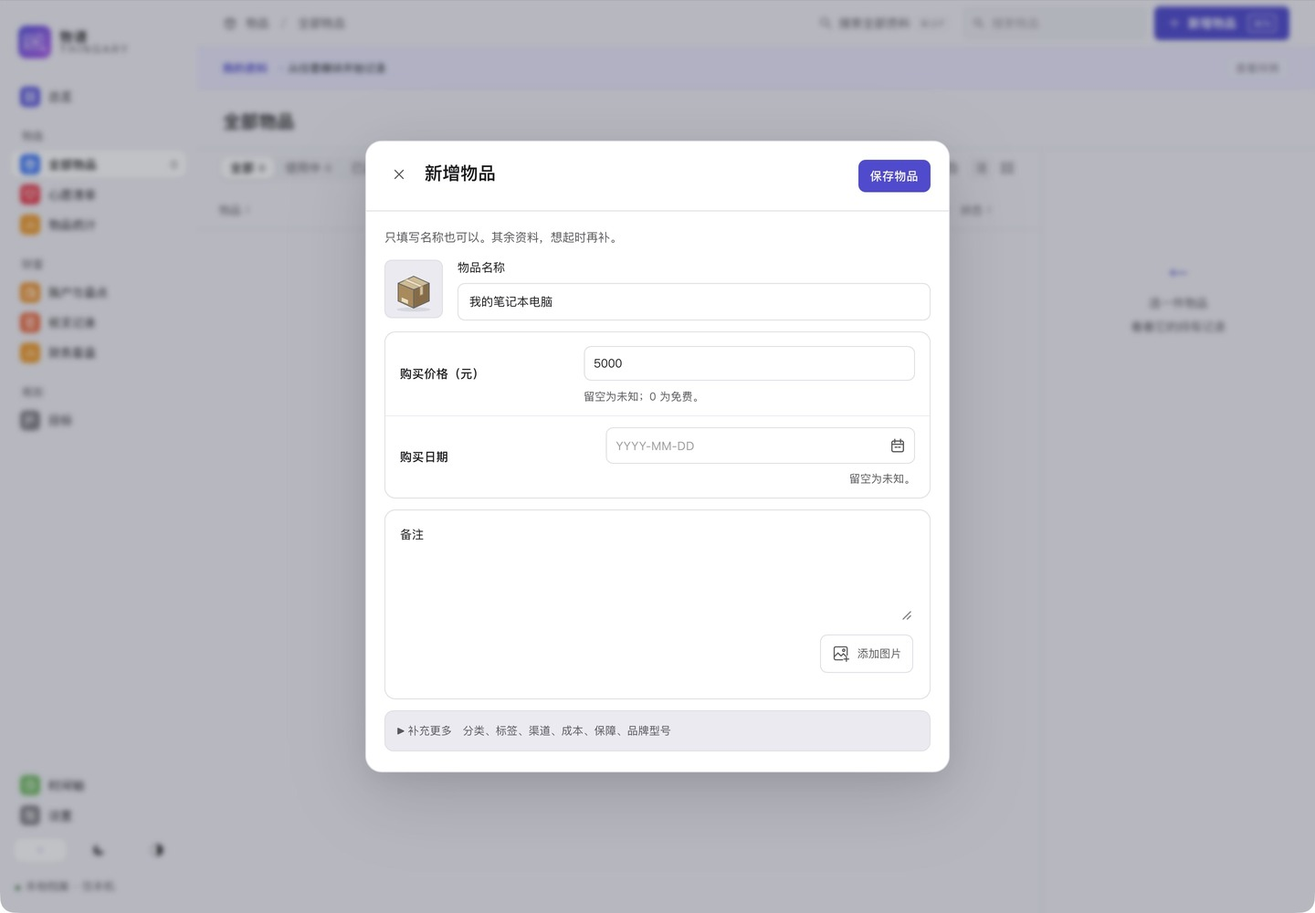
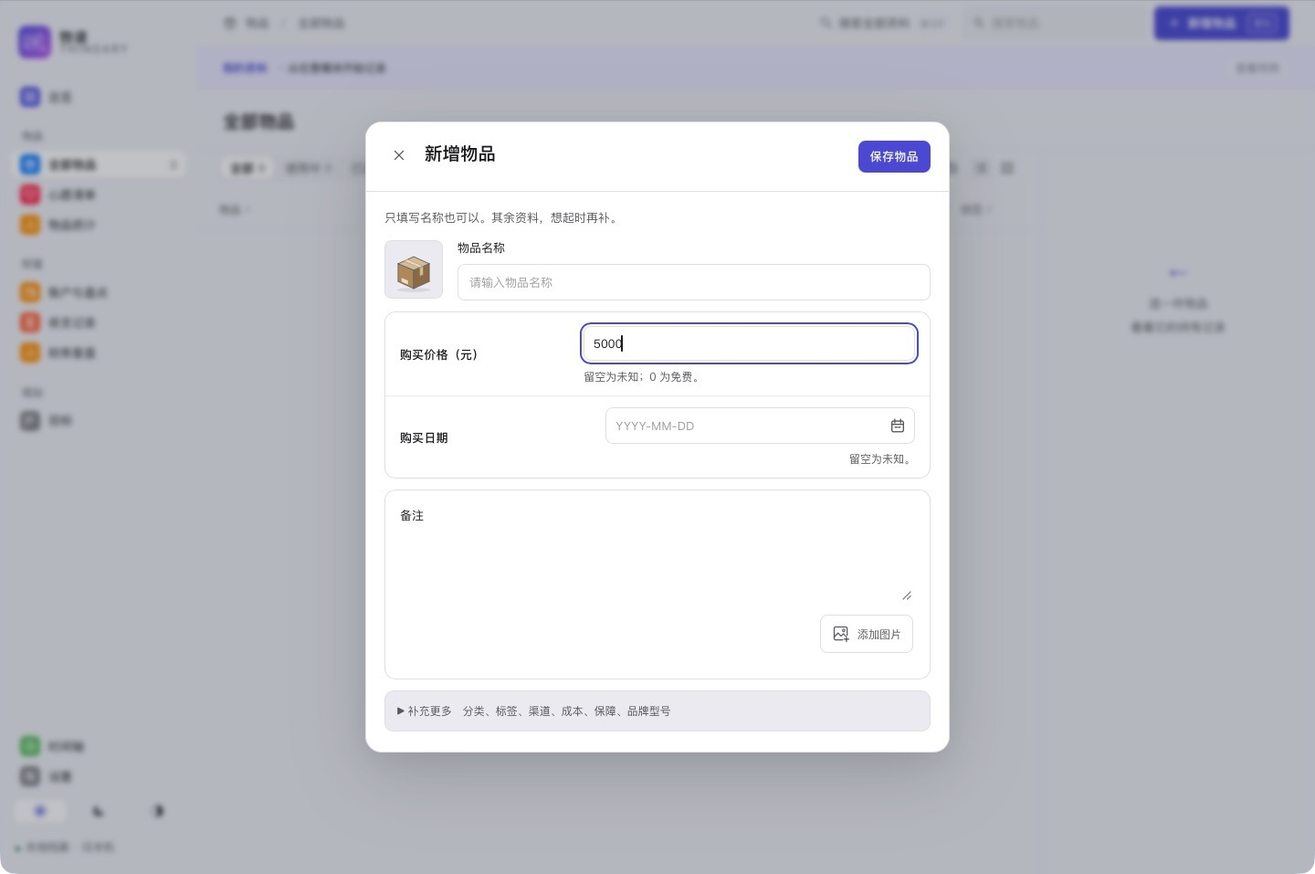
docs: finish 0.0.5 guide and refresh native screenshots

diff --git a/docs/USER_GUIDE.md b/docs/USER_GUIDE.md
@@ -4,7 +4,7 @@
 
 [下载安装](#download) · [第一件物品](#first-record) · [第一次盘点](#first-snapshot) · [日常操作](#modules) · [规划入门](#planning) · [职业试算](#career-trial) · [备份与恢复](#backup) · [更新与换机](#update) · [常见问题](#faq) · [当前限制](#limits)
 
-本页描述当前主分支的操作。财务工作区、政策测算退出与当前报告预览已接入源码并完成对应核心验证；公开安装包的内容以其版本说明为准。截图来自虚构资料，来源与更新范围见[截图维护清单](images/README.md)，不表示全部原生功能已验收。
+本页描述当前主分支的操作。财务工作区、政策测算退出与当前报告预览已接入源码并完成对应核心验证；公开安装包的内容以其版本说明为准。截图来自虚构资料，来源与更新范围见[截图维护清单](https://github.com/CoderJackZhu/Thingary/blob/main/docs/images/README.md)，不表示全部原生功能已验收。
 
 本说明的下载与安装步骤对应 **0.0.5 公开测试版**，用于收集使用与兼容性反馈。安装包与版本说明见 [0.0.5 Release](https://github.com/CoderJackZhu/Thingary/releases/tag/v0.0.5)。若某个版本没有 DMG 附件，说明该版本尚未提供安装包；维护者的本机安装状态不代表已公开发布。
 
@@ -41,13 +41,13 @@
 
 第一次打开会进入独立的虚构样例库，顶部显示「样例体验」。可以浏览和修改样例，它们不会混进自己的资料。
 
-![当前源码总览：内存虚构盘点与目标估算](images/overview-light.jpg)
+![当前源码总览：原生虚构盘点与目标估算](images/overview-light.jpg)
 
-图中已补充目标条件，用来说明总览布局；来自内存虚构浏览器预览，首次样例不一定具有相同条件。
+图中为 0.0.5 内置虚构样例，已保存目标条件仍有待确认项；这里只说明布局，不表示这些条件已被核实。
 
 准备好后，点顶部 **「开始记录我的资料」**。真实录入时请先确认顶部没有「样例体验」。自己的资料尚未开始时，总览会显示“你想先做哪件事？”：点“先整理物品”进入新增物品表单，点“先盘点账户”进入账户页。只做其中一件也可以。默认勾选“先隐藏周期费用和虚拟资产”，点击起步按钮后才应用，其余模块保持原设置；随时可在设置 › 功能模块重新打开。取消勾选或“跳过”不会改设置，跳过只关闭当前资料库的卡片。设置写入失败时保留提示与卡片，仍可继续录入；保存第一条资料后不再显示。只是取消表单或保存失败，不算已经开始记录。
 
-![自己的资料未开始时的起步选择，内存虚构浏览器预览](images/start-choice.jpg)
+![自己的资料未开始时的起步选择，隔离身份的原生虚构样例](images/start-choice.jpg)
 
 <a id="first-record"></a>
 
@@ -61,7 +61,7 @@
 4. 可点击名称左侧的图标选择封面，首屏可填写备注和添加图片。「补充更多」中可填写分类、标签、渠道、成本与保障、品牌、型号和序列号；编辑已有补充资料的物品时默认展开。
 5. 点顶部「保存物品」，保存后进入完整档案。点左上角「全部物品」回到列表；单击物品查看右侧摘要，双击或点「打开完整档案」查看和更正资料。
 
-![新增物品首屏与收起的补充更多，内存虚构浏览器预览](images/first-item-form.jpg)
+![新增物品首屏与收起的补充更多，隔离身份的原生虚构样例](images/first-item-form.jpg)
 
 先记录最值得留档的几件物品即可，不必一次填完所有信息。普通表单点叉会丢弃未保存输入；已点击保存但结果未知时，请按提示核对原请求，避免重复提交。收入、账户盘点等财富记录关闭表单或重启后，可在页面上方点“核对保存结果”；金融导入点“前往数据管理核对导入”。物品保存仍按原恢复提示核对。读取失败会保留原请求，可再试一次。
 
@@ -86,7 +86,7 @@
 
 ![第一次盘点后的概览](images/first-snapshot-result.jpg)
 
-本节首次盘点的两张图片来自既有独立原生验收样例，全部使用虚构资料；总览、起步选择和新增物品的本轮更新图来自内存虚构浏览器预览。安装步骤图是示意图，逐图来源见[截图清单](images/README.md)。
+本节首次盘点的两张图片来自既有独立原生验收样例，全部使用虚构资料；总览、起步选择和新增物品的更新图也来自隔离身份的原生应用。安装步骤图是示意图，逐图来源见[截图清单](https://github.com/CoderJackZhu/Thingary/blob/main/docs/images/README.md)。
 
 前面电脑的 5,000 元是购入记录，**不加进这 8,000 元金融净资产**；如果银行卡余额已反映购买电脑，不要再从余额中扣一次。净资产变化也不等于投资收益。每次盘点都填写账户的当前数值；旧版缺失金额仍保持为空，不能当成 0。
 
@@ -134,7 +134,7 @@
 - **周期费用**的计划名称、服务覆盖期与说明会自动换行，长说明不会撑宽页面。计划表列为名称、分类、每期金额（带周期单位，非月付另列月均）、下次付款、状态和累计费用（估算或已确认付款）；固定期限的租期预计费用显示在状态下。“到期”清单里月付等 7 天内、年付 30 天内的期次算即将到期。付款记录保留完整日期、金额和状态。
 
 
-![列表工具栏中的物品状态与分类筛选，内存虚构浏览器预览](images/assets-light.jpg)
+![列表工具栏中的物品状态与分类筛选，隔离身份的原生虚构样例](images/assets-light.jpg)
 
 ## 首页的物品日均成本
 
@@ -162,7 +162,7 @@
 
 ## 记录与保护资料
 
-从侧栏进入「全部物品」，点右上角「新增物品」（或按 ⌘N），填写名称后即可保存；金额和图片可按实际情况补充。购入日期预填今天，记录旧物时可通过「选日期」用鼠标选实际日期，也可用键盘输入；日期不确定可清空。其他日期字段也支持鼠标选择和键盘输入。在详情中可更正记录，也可点顶部「删除物品…」，确认后从「最近删除」找回。
+从侧栏进入「全部物品」，点右上角「新增物品」（或按 ⌘N），填写名称后即可保存；金额和图片可按实际情况补充。新建购入日期默认留空，心愿转购入默认今天；记录旧物时可通过「选日期」用鼠标选实际日期，也可用键盘输入；日期不确定可清空。其他日期字段也支持鼠标选择和键盘输入。在详情中可更正记录，也可点顶部「删除物品…」，确认后从「最近删除」找回。
 
 名称左侧默认显示箱子。点击可选择图标、立体图标、最近使用的素材或自己的图片；支持分类和搜索。「摄影」分类包含相机、镜头和摄影配件，按常用器材优先排列；「最近使用」仍按实际选择顺序排列。自己的图片可从 Mac 选择，也可拖入或粘贴到选择器。实物照片等通过备注区的虚线「添加图片」入口加入。替换已有图标会把原照片保留为附件；恢复默认箱子也不会删除旧照片。
 
@@ -206,9 +206,9 @@
 
 ## 账户与盘点
 
-侧栏“财富 · 账户与盘点”用于定期核对各平台余额与欠款。概览、账户、盘点记录是页面切换；“显示账户”放在账户清单附近，可筛选在用、已停用或全部账户，仅改变清单，不改变净资产汇总。先新增账户：只需名称、平台、资产或负债、类型与启用日期，不需要卡号或登录信息；房贷、车贷等可关闭“计入金融净资产”。
+侧栏“财富 · 账户与盘点”用于定期核对各平台余额与欠款。标题下方的“概览／账户／盘点记录”是页面切换标签；“显示账户”放在账户清单附近，可筛选在用、已停用或全部账户，仅改变清单，不改变净资产汇总。先新增账户：只需名称、平台、资产或负债、类型与启用日期，不需要卡号或登录信息；房贷、车贷等可关闭“计入金融净资产”。
 
-概览的账户清单与「账户」页默认只显示使用中的账户。在页面上方「账户范围」可切换「已停用」或「全部账户」，不用去设置页；切换在本页各分段间保留，重新进入默认使用中。全部账户先列使用中、再列已停用；「账户」表的状态表头也可点击排序。这只是显示筛选，不改变净资产、盘点范围或历史记录。「变化」默认收起两端已知为零且无变化的停用账户；仍有余额、变化、未知金额或参与比较的账户变化的停用账户保留，方便核对历史。上方比较指标与合计始终使用整个区间。
+概览的账户清单与「账户」页默认只显示使用中的账户。在账户清单附近的「显示账户」可切换「已停用」或「全部账户」，不用去设置页；切换在本页各分段间保留，重新进入默认使用中。全部账户先列使用中、再列已停用；「账户」表的状态表头也可点击排序。这只是显示筛选，不改变净资产、盘点范围或历史记录。「变化」默认收起两端已知为零且无变化的停用账户；仍有余额、变化、未知金额或参与比较的账户变化的停用账户保留，方便核对历史。上方比较指标与合计始终使用整个区间。
 
 盘点时对照各平台逐行抄入当前金额，零余额填 0；回车到下一行，所有应盘点账户填齐后点「保存盘点」，差额自动计算。没有「未变」「未知」或批量确认。已经不用的账户在账户资料中设置停用日期，按该日期的停用规则处理；账户已有盘点历史时保留历史记录。同一天再次盘点会更正原记录。账户表下方的「本次盘点备注（可选）」记录背景（例如大额购买、账户调整），随金额一起保存，不参与计算。更正会加载原金额，只改备注不会重新按更早盘点推导金额；修改金额就直接填写新数值。旧版不完整盘点可以查看，更正时补齐缺失金额再保存。切换日期会加载那一日自己的备注，有未保存的备注修改时提示确认，取消保留当前日期、金额与备注。
 
@@ -318,8 +318,6 @@
 
 <a id="planning"></a>
 
-<a id="规划收入与复盘"></a>
-
 
 ## 规划：目标
 
@@ -331,7 +329,6 @@
 2. 填写退休后每月生活预算。没想好留空，不会当作零。
 3. 选择盘点中的可动用账户，或手填模拟资金与截至日期；不会与实际余额叠加。可用资金包含准备变现用于本计划的基金、证券等投资，不只现金。新增现金及投资账户会先建议可动用，请确认赎回限制和参与比例；已有选择保留，不能赎回或不准备动用的账户可设为暂不能动用或不参与。
 4. 选择未来收入：暂未确认、明确不计、或自己填写。养老金可通过官方入口取得参考结果后，填写每月金额和开始月份。
-
 5. 填写每月预计净投入，即到账扣除日常开销后能存下或投入的钱；可以跳过，明确无投入填零，每月取用已有资金填负数。未填写时能反求目标需求，不能预测当前投入能否达成。
 
 最后保存一次。关闭窗口不保存未提交草稿；保存失败保留输入，结果未知时先核对原请求。以后可在目标首页逐项修改目标类型、时间、预算、资金、收入、净投入与假设；应急金设置用于既有参考，不从本次退休测算可用资金另行扣除。收入子编辑需要先完成，父窗口才可保存。
@@ -340,17 +337,17 @@
 
 个人养老金、公积金继续在账户与盘点中维护。暂时取不出的钱（公积金、个人养老金等）可以另填明确月份的预计可用净额；这只是规划，不会创建真实到账或缴存记录。金额未知可留空，并会提示未计入。
 
-结果并列展示固定目标日期需要的月投入和你预计能投入的金额，可在结果旁直接填写或修改净投入。财务自由模式分别说明希望退休的时间与按当前投入预计达成的时间；按计划退休模式检查固定时间是否够用。预计投入未知时可先看需求，不给假达成日期。页头“目标／测算详情／试算”切换不同内容：“目标”保留已保存条件、当前结论、大额计划、核算注意事项和当前报告；“测算详情”保留轨迹、覆盖与逐年表，假设分析保留压力、市场路径、敏感性及收益顺序检查；“试算”包含心愿影响、职业变化与资金续航。尚未设置时测算详情不可用，试算的独立资金续航仍可填写，其他内容说明待补齐条件。重新进入规划默认目标；有编辑、设置、报告或待确认回执时先完成或关闭当前操作，再切换标签。切换后焦点回到页面标题。没有年龄参考时显示月份，市场路径结果不是现实保证。
+结果并列展示固定目标日期需要的月投入和你预计能投入的金额，可在结果旁直接填写或修改净投入。财务自由模式分别说明希望退休的时间与按当前投入预计达成的时间；按计划退休模式检查固定时间是否够用。预计投入未知时可先看需求，不给假达成日期。标题下方的“目标／测算详情／试算”切换不同内容：“目标”保留已保存条件、当前结论、大额计划、核算注意事项和当前报告；“测算详情”保留轨迹、覆盖与逐年表，假设分析保留压力、市场路径、敏感性及收益顺序检查；“试算”包含心愿影响、职业变化与资金续航。尚未设置时测算详情不可用，试算的独立资金续航仍可填写，其他内容说明待补齐条件。重新进入规划默认目标；有编辑、设置、报告或待确认回执时先完成或关闭当前操作，再切换标签。切换后焦点回到页面标题。没有年龄参考时显示月份，市场路径结果不是现实保证。
 
 大额计划在“目标”的主要条件之后常驻展开；来自心愿清单的“心愿对目标的影响”位于“试算”。未来买房、买车等设想填好月份和金额后，打开计入开关就会重算，不要求记录实际付款或贷款余额；实际发生后再核对实际资料。旧计划的持有／循环终点待重设时，可点该行「按规划终点计算」一次确认，或编辑其他终点。结果旁的提示可以定位对应计划。心愿购买仍单独比较买下后的影响，不自动写入上方目标或扣真实余额。
 
-![目标标签：已保存条件与当前结论，内存虚构浏览器预览](images/planning-goals.jpg)
+![目标标签：已保存条件与当前结论，隔离身份的原生虚构样例](images/planning-goals.jpg)
 
 结果卡片中的「查看测算详情与图表」与标题下方的「测算详情」标签进入同一视图；结果有缺口时，可点「试算：歇一阵或换工作会怎样」直接去试算。
 
-![测算详情标签：轨迹与计算依据，内存虚构浏览器预览](images/planning-detail.jpg)
+![测算详情标签：轨迹与计算依据，隔离身份的原生虚构样例](images/planning-detail.jpg)
 
-![试算标签：心愿影响、职业变化与资金续航，内存虚构浏览器预览](images/planning-trial.jpg)
+![试算标签：心愿影响、职业变化与资金续航，隔离身份的原生虚构样例](images/planning-trial.jpg)
 
 核算注意事项直接列出影响结果或需要确认的条件。「现在可用的钱」显示现金与投资的计入金额，以及暂不能动用或不参与的账户，可点「核对账户用途与投资计入」修改。
 
@@ -372,9 +369,9 @@
 
 ### 查看当前报告
 
-当前源码在目标页提供“查看当前报告”：先保存规划条件，从结果区打开报告，先查看结论、关键数字和主要条件，再查看详细依据和账户。报告默认隐藏金额，可点“显示金额”查看数值，账户用局部别名表示；“复制摘要”复制当前选择的版本，失败时会提示重试。关闭不会改变条件或保存报告。输入缺项、目标未满足、终点无余量与报告展示范围有限分别说明；隐私版本保留受控结论、隐藏金额和自由文本。结论旁会显示影响结论的事项数量，具体依据见下方“影响结论的事项”；没有影响项时不显示这行提示。报告的未覆盖内容会列明，逐月图表和详细购买结果继续在目标的计算详情查看；这个入口尚未另行公开发布。
+当前源码在目标页提供“查看当前报告”：先保存规划条件，从结果区打开报告，先查看结论、关键数字和主要条件，再查看详细依据和账户。报告默认隐藏金额，可点“显示金额”查看数值，账户用局部别名表示；“复制摘要”复制当前选择的版本，失败时会提示重试。关闭不会改变条件或保存报告。输入缺项、目标未满足、终点无余量与报告展示范围有限分别说明；隐私版本保留受控结论、隐藏金额和自由文本。结论旁会显示影响结论的事项数量，具体依据见下方“影响结论的事项”；没有影响项时不显示这行提示。报告的未覆盖内容会列明，逐月图表和详细购买结果继续在目标的计算详情查看；0.0.5 已提供这个报告入口。
 
-![当前报告的虚构浏览器隐私预览，金额默认隐藏](images/planning-report-current.png)
+![当前报告：原生虚构样例的隐私预览，金额默认隐藏](images/planning-report-current.png)
 
 <a id="finance-review"></a>
 

diff --git a/docs/images/README.md b/docs/images/README.md
@@ -1,28 +1,29 @@
 # 界面截图与维护
 
-## 当前定位与导航截图
+## 当前 0.0.5 截图
 
-2026-10-13 为 0.0.4 测试版重新拍摄下表全部 8 张 JPEG、报告 PNG 与 GIF。界面基线为 `3fb3f8c2550cc9c8298b54d1867dd91f510b2f2b` 加本版样例说明图标与关闭模块错误提示修正；对应源码以 `v0.0.4` 标签为准。草稿尚未公开。
+2026-10-13 在 `v0.0.5`（`8f018a080ffcc6b936dc1ababe2168b4d697c8b0`）同源码的隔离应用中重新拍摄下表图片和 GIF，更新页面标题下的标签、目标主按钮及“计入净资产的账户”文案。已发布的标签、DMG 和其中的旧离线指南保持原样；这些截图修订随主分支维护，下次发布再打包。
 
-这些图片来自 **真实 macOS 原生 WebView**，用电脑操控工具捕获。全新身份为 `local.thingary.release004.screens20261013`，不使用 `local.thingary.main` 或已有个人资料。样例由应用内置虚构样例库生成：10 件物品、5 个在用账户，2026-10-13 完整盘点金融净资产 350,000 元。保留 2 件金额未知、5 项规划条件待确认，以及报告的 6 项影响事项，不伪造确认或计算结果。
+图片来自 **真实 macOS 原生 WebView**，由原生应用控制工具捕获。全新身份为 `local.thingary.release005.closeout20261013`，未使用正式身份或已有个人资料。应用内置虚构样例有 10 件物品、5 个在用账户，2026-10-13 完整盘点金融净资产 350,000 元；2 件金额未知、5 项规划条件待确认和报告的 6 项影响事项如实保留。
 
[2 lines of base64/hex data omitted]
 
-| 当前文件 | 实际原生状态／操作 |
+| 当前文件 | 原生状态／操作 |
 |---|---|
-| `overview-light.jpg`、`overview-dark.jpg` | 内置样例、综合总览；依次选浅色／深色，单一紧凑说明与圆形说明图标 |
-| `assets-light.jpg` | 样例全部物品；侧栏三入口、列表状态分段、价格／日期未知保留 |
-| `first-item-form.jpg` | 切到同身份全新空个人库，点“先整理物品”；虚构“我的笔记本电脑”、价格 5000，日期留空、补充更多收起；拍后关闭不保存 |
-| `planning-goals.jpg` | 内置样例的目标标签，已保存条件、暂算结论及大额计划，未核对条件保留 |
-| `planning-detail.jpg` | 同样例切到测算详情；需求与轨迹，保留假设及待核对提示 |
-| `planning-trial.jpg` | 同样例切到试算；心愿影响、职业入口、临时资金续航 |
-| `start-choice.jpg` | 切到同身份全新空个人库；两条起步路径，辅助模块复选框默认勾选；在首次表单前拍摄 |
-| `planning-report-current.png` | 同样例打开当前报告，默认隐私；结论旁实际显示 6 项影响事项 |
-| `overview-to-goals.gif` | 同一原生样例中操作：综合总览 → 账户与盘点 → 目标。三张实际截图各停留 4 秒，总长 **12 秒**；是真实页面操作三帧演示，不是盘点保存录像 |
+| `overview-light.jpg`、`overview-dark.jpg` | 同一内置样例的综合总览，浅／深色；资产结构说明已更新 |
+| `assets-light.jpg` | 样例全部物品；状态分段、价格与日期未知保留 |
+| `wealth-light.jpg` | 样例账户与盘点概览；标题下“概览／账户／盘点记录”标签 |
+| `finance-records.jpg` | 样例收支记录收入栏，全部期间；标题下记录类型标签 |
+| `finance-review.jpg`、`planning-review.jpg` | 同一截图的本期复盘；标题下“本期复盘／盘点比较”标签 |
+| `planning-goals.jpg` | 样例目标标签，暂算结论、详情主按钮及待确认条件 |
+| `planning-detail.jpg` | 从详情主按钮进入测算详情；需求、轨迹与待核对提示 |
+| `planning-trial.jpg` | 样例试算；心愿影响、职业入口及临时资金续航 |
+| `planning-report-current.png` | 样例当前报告，默认隐私；实际显示 6 项影响事项 |
+| `start-choice.jpg` | 同身份全新空个人库，两条起步路径，辅助模块复选框默认勾选 |
+| `first-item-form.jpg` | 点“先整理物品”，填虚构“我的笔记本电脑”、价格 5000，日期留空、补充更多收起；拍后关闭不保存 |
+| `overview-to-goals.gif` | 以上总览 → 账户与盘点 → 目标三张原生截图各停留 4 秒，共 **12 秒**；页面演示，不是保存录像 |
 
-原图、逐张界面状态、文件散列和发布验收记录另存维护者档案。公开目录只保留使用指南需要的图片。下列历史原生图未在本次重拍，涉及旧入口时以当前正文与上表为准。
-
-拍摄后 `d62456b` 把总览资产结构旁的“参与比较的账户”改为“计入净资产的账户”；`overview-light.jpg`、`overview-dark.jpg` 仍显示旧文案。`507d2ca` 把规划、账户与盘点、收支记录、财务复盘的页面标签移到标题下方，相关截图仍显示旧位置；下次重拍时一并更新。
+截图与页面走查只证明所述展示和操作；不代表完整保存／重启、备份恢复、无障碍或其他平台验收。发布时的 0.0.4／0.0.5 工程与升级验证见开发说明和对应版本说明。
 
 ## 保留的原生截图
 
@@ -32,13 +33,10 @@
 
 | 保留文件 | 原始捕获状态 |
 |---|---|
-| `wealth-light.jpg` | 账户与盘点概览，净资产、结构与显示范围 |
 | `stats-light.jpg`、`stats-dark.jpg` | 物品统计全部时间，浅／深色 |
 | `planning-yearly.jpg` | 测算详情展开逐年快照，51 行数据未抽样 |
 | `career-trial.jpg` | 职业变化输入与无法保住原目标的示例；旧宿主在目标更多工具区域，当前入口已移至试算 |
-| `finance-records.jpg` | 收支记录收入栏、全部期间 |
 | `expenses-year.jpg` | 重要支出全部年份与待补提示 |
-| `finance-review.jpg`、`planning-review.jpg` | 财务复盘本期复盘，两文件来自同一次捕获 |
 | `planning-report.jpg` | 旧当前报告默认隐私；README 和报告指南改用上表的新 PNG |
 | `subscription-detail.jpg` | 虚构关联订阅，120 元/月，已确认付款与服务期 |
 | `first-snapshot-form.jpg`、`first-snapshot-result.jpg` | 首次盘点提交前及保存后概览，10,000 元 |

diff --git a/docs/releases/v0.0.5.md b/docs/releases/v0.0.5.md
@@ -23,11 +23,11 @@ GitHub 标记为 Pre-release；[0.0.4](https://github.com/CoderJackZhu/Thingary/
 
 ## 验证与限制
 
-本轮运行前端构建、**1,059 项 UI 测试**、Rust 格式／Clippy 和 **578 项 Rust 测试**；3 项既有容量测试按原规则忽略。页面标签、结果卡片入口与返回链接在浏览器内存虚构预览中检查了浅色、深色和 820 像素宽窗口；**本版改动未做原生走查**。
+本轮运行前端构建、**1,059 项 UI 测试**、Rust 格式／Clippy 和 **578 项 Rust 测试**；3 项既有容量测试按原规则忽略。页面标签、结果卡片入口与返回链接在浏览器内存虚构预览中检查了浅色、深色和 820 像素宽窗口；**发布时本版改动未做原生走查**；发布后的同源码隔离页面走查见[当前开发说明](https://github.com/CoderJackZhu/Thingary/blob/main/docs/DEVELOPMENT.md)。
 
 正式包的版本、正式身份、x86_64 与 arm64 双架构和严格签名通过静态核验；只读挂载包与原始构建包、临时复制包一致，包内没有数据库、备份、测试资料或凭据。核验未启动正式身份包。
 
-使用指南中目标、测算详情、试算、账户与盘点、收支记录和财务复盘的截图沿用 0.0.4 拍摄，页面标签仍显示在旧位置（页头右上角），内容与操作不受影响，下个版本重拍。
+发布时使用指南中目标、测算详情、试算、账户与盘点、收支记录和财务复盘的截图沿用 0.0.4 拍摄，页面标签仍显示在旧位置（页头右上角），发布时的离线指南保留这些图。主分支已重拍 0.0.5 同源码原生图，见[截图清单](https://github.com/CoderJackZhu/Thingary/blob/main/docs/images/README.md)；在线文档修订不改变已发布的 DMG。
 
 VoiceOver、完整键盘／输入法组合、系统通知送达、Intel Mac、其他系统和真实下载首开未验。资料及备份未加密，无跨设备同步、自动更新、交易或自动付款。规划与模拟是假设测算，路径占比不代表现实成功概率；详见[当前限制](https://github.com/CoderJackZhu/Thingary/blob/v0.0.5/docs/USER_GUIDE.md#limits)。
 

diff --git a/docs/DEVELOPMENT.md b/docs/DEVELOPMENT.md
@@ -34,7 +34,13 @@ npm test
 
 故障注入 feature 只用于测试，不进入普通应用。检查结果按本次实际执行登记；测试文件存在、历史通过或源码提交不代表当前工作树已通过。文案／样式核对受影响页面与断点；表单验证保存、取消、未知与失败；计算运行对应数值和调用链回归。纯文档检查链接、锚点、术语和离线交付依赖。
 
-### 0.0.4 草稿发布验证
+### 0.0.5 发布后文档与截图收尾
+
+0.0.5 已作为 Pre-release 公开，源码为 `v0.0.5`；工程回归与通用包静态核验见[版本说明](releases/v0.0.5.md)。发布后用同源码、全新隔离身份走查浅／深总览、账户与盘点、收支记录、财务复盘、目标、详情主按钮、试算、报告默认隐私和空库起步；确认顶层导航不带返回链接，报告保留 6 项影响提示，新增物品日期为空、补充更多收起，关闭表单没有新增记录。更新原生截图及 12 秒三帧演示，来源与实际尺寸见[截图清单](images/README.md)。
+
+本轮只改文档与媒体，没有应用代码或格式变化；重新生成离线指南并检查图片、链接与内部跳转。新指南不替换已经发布的 DMG。完整持久化、备份恢复、键盘／输入法、VoiceOver、Intel、其他系统和下载首开的验证边界沿用原记录，不由截图走查推定通过。
+
+### 0.0.4 发布验证
 
 本轮构建、1,059 项 UI 测试、格式／Clippy 和 578 项 Rust 测试通过，3 项既有容量测试按原规则忽略。新增 36→37、37→38 提交前故障回滚与重试测试；总览待关注的来源完整性只检查已启用模块，回归覆盖隐藏来源及已启用来源真实失败。样例横幅说明图标的拉伸已修正并原生复验。
 

diff --git a/README.md b/README.md
@@ -14,11 +14,11 @@
 
 ![物谱总览：净资产趋势、退休目标与物品档案](docs/images/overview-light.jpg)
 
-总览把账户盘点与按条件估算的目标并排展示；截图为已设置目标的内存虚构示例。
+总览把账户盘点与按条件估算的目标并排展示；截图为 0.0.5 隔离身份的原生虚构样例，待确认条件如实保留。
 
 ![12 秒演示：总览、账户盘点页与目标结论](docs/images/overview-to-goals.gif)
 
-12 秒的内存虚构演示：打开总览 → 进入账户盘点页 → 查看目标结论。
+12 秒的原生虚构样例演示：打开总览 → 进入账户盘点页 → 查看目标结论。
 
 ## 开始使用
 
